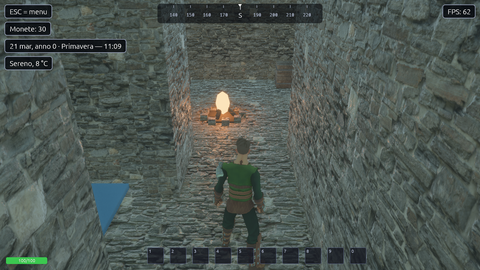
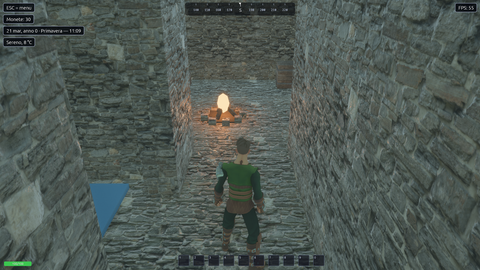
feat(devtools): tests run headless with no input and audio into a virtual sink; new reference photos
beta_check.sh runs headless by default (no keyboard, mouse or gamepad input; gilrs
disabled in headless mode) and plays audio into a temporary PulseAudio null sink,
which the pilot's recorder uses through PULSE_SINK. --con-finestra and --con-casse
restore the old behaviour. Reference photos redone headless for all scripts; meteo
and scuri-casetta framed better; quest-completa collects coins on a grid.

diff --git a/src/autopilot.rs b/src/autopilot.rs
@@ -192,12 +192,19 @@ impl Autopilot {
 
 /// Avvia la registrazione di ciò che esce dagli altoparlanti (monitor della scheda audio
 /// predefinita, PulseAudio o PipeWire) in un file WAV. Solo Linux: `parec` e `pactl`.
+/// Con `PULSE_SINK` (le prove di `beta_check.sh` suonano in una scheda virtuale, a casse mute)
+/// registra quella.
 fn start_recording(path: &std::path::Path) -> Result<std::process::Child, String> {
-    let sink = std::process::Command::new("pactl")
-        .arg("get-default-sink")
-        .output()
-        .map_err(|e| format!("pactl: {e}"))?;
-    let sink = String::from_utf8_lossy(&sink.stdout).trim().to_string();
+    let sink = match std::env::var("PULSE_SINK") {
+        Ok(s) if !s.is_empty() => s,
+        _ => {
+            let out = std::process::Command::new("pactl")
+                .arg("get-default-sink")
+                .output()
+                .map_err(|e| format!("pactl: {e}"))?;
+            String::from_utf8_lossy(&out.stdout).trim().to_string()
+        }
+    };
     if sink.is_empty() {
         return Err("nessuna scheda audio predefinita".into());
     }

diff --git a/src/main.rs b/src/main.rs
@@ -159,7 +159,10 @@ fn main() -> AppExit {
                 close_when_requested: false,
                 ..default()
             })
+            // Senza finestra non arrivano tastiera né mouse; niente nemmeno dai gamepad:
+            // in prova comanda solo il pilota.
             .disable::<bevy::winit::WinitPlugin>()
+            .disable::<bevy::gilrs::GilrsPlugin>()
             .add(bevy::app::ScheduleRunnerPlugin::run_loop(
                 std::time::Duration::from_secs_f64(1.0 / 60.0),
             ))

diff --git a/docs/beta/PIANO-BETA.md b/docs/beta/PIANO-BETA.md
@@ -229,7 +229,7 @@ Per ogni voce: un copione in `prove/`, cosa ci si aspetta, come si verifica (sta
 
 **Da decidere**: tutti gli effetti escono **identici a destra e a sinistra**. Non c'è audio posizionale, solo il volume che cala con la distanza: una campana o un abitante a sinistra non si sentono a sinistra. Bevy ha l'audio spaziale (ascoltatore sulla camera): è un miglioramento, non un difetto.
 
-**Limite scoperto l'11/11**: il pilota ha bisogno che la sessione di `dev` sia quella attiva. Se è attiva l'altra sessione del PC (un altro utente su un altro terminale virtuale), il gioco va in panic alla creazione della finestra (Vulkan «Invalid surface»). Con lo schermo solo bloccato, o il monitor spento, funziona. Il rendering software (Xvfb + llvmpipe) è troppo lento: in 5 minuti non finisce l'avvio. Rimedio: `PLANET_ONE_HEADLESS=1` (o `beta_check.sh --senza-schermo`), la camera disegna in un'immagine sulla GPU senza finestra; le foto non hanno HUD né pannelli. Parte sulla scheda giusta. Il primo tentativo è finito con la **memoria video esaurita**, perché Ollama teneva caricato un altro modello (circa 9 GB) e la scheda ha 12 GB.
+**Limite scoperto l'11/11**: il pilota ha bisogno che la sessione di `dev` sia quella attiva. Se è attiva l'altra sessione del PC (un altro utente su un altro terminale virtuale), il gioco va in panic alla creazione della finestra (Vulkan «Invalid surface»). Con lo schermo solo bloccato, o il monitor spento, funziona. Il rendering software (Xvfb + llvmpipe) è troppo lento: in 5 minuti non finisce l'avvio. Rimedio: `PLANET_ONE_HEADLESS=1` (oggi il modo di base di `beta_check.sh`), la camera disegna in un'immagine sulla GPU senza finestra; le foto non hanno HUD né pannelli. Parte sulla scheda giusta. Il primo tentativo è finito con la **memoria video esaurita**, perché Ollama teneva caricato un altro modello (circa 9 GB) e la scheda ha 12 GB.
 
 **Risoluzioni (11/11)**: `beta_check.sh` prova le risoluzioni standard 720p, 1080p, 1440p e 4K, come un giocatore vero (`--risoluzioni giro|tutte|…`). I monitor di questo PC arrivano a 2560×1440, ma il gestore delle finestre riduce una finestra 1440p o 4K a 2490×1376. Per questo le risoluzioni che non stanno sullo schermo girano senza finestra, alla misura esatta, e il rapporto mostra la risoluzione vera. Copione `fps` (nove luoghi, giorno e notte, grafica alta, RTX 3080 Ti):
 
@@ -246,7 +246,17 @@ Suite completa a rotazione (21 copioni, cinque o sei per risoluzione): tutti pas
 - senza finestra Bevy avvisava che mancava l'origine del dettaglio delle ombre (`ShadowLodOrigin`): ora è la camera, così le ombre e gli FPS misurati sono come a finestra;
 - `b2-torre`: il `tp` dentro la torre mette il giocatore sotto il pavimento prima che i collider siano pronti, e la rete di sicurezza lo riporta su (`[RETE]`). Il giocatore non ci arriva così; la prova passa;
 - una finestra 1080p può aprirsi sul secondo monitor (1920×1080) e venire ridotta a 1850×1043: il rapporto lo segnala nella colonna Risoluzione;
-- i copioni nuovi (`edifici`, `giro-camera`, `interfaccia`, `meteo` e altri) non hanno ancora foto di riferimento: si creano con `--aggiorna` quando le foto attuali vanno bene.
+- foto di riferimento: rifatte tutte senza finestra (15 copioni, 63 foto) dopo averle guardate una per una. `meteo` ora inquadra un prato aperto a ovest (prima il giocatore era attaccato a un muro); `scuri-casetta` inquadra la finestra sud da fuori e fotografa giorno, notte e mattina (prima si vedevano solo le guardie). `quest-completa` falliva una volta su tre: il ladro muore in punti diversi e il giro fisso a volte lasciava una moneta oltre i 2 m di raccolta; ora il pilota percorre la zona a griglia (passato 3 volte su 3). Corsa di verifica: 63 foto su 63 entro la soglia.
+
+**Prove che non disturbano (11/11)**: di base `beta_check.sh` gira senza finestra, quindi non arriva input da tastiera, mouse o gamepad, e con l'audio in una scheda virtuale di PulseAudio (`module-null-sink`, `PULSE_SINK`), tolta alla fine. Le casse restano mute e `registra` registra lo stesso: i livelli coincidono con la revisione dei suoni. Le foto senza finestra hanno comunque l'HUD. `--con-finestra` e `--con-casse` tornano come prima. Unico avviso nuovo: un «buffer underrun» di rodio nel copione `ascolto` (la scheda virtuale ha un suo orologio; non si sente nella registrazione).
+
+Trovati guardando le foto (da decidere):
+- **Meteo**: con nuvoloso, nebbia, pioggia, temporale e neve il sole proietta ancora **ombre nette** come col sereno. Il cielo coperto dovrebbe ammorbidirle o toglierle.
+- **Neve**: i fiocchi vicini alla camera sono grossi quadrati bianchi.
+- **Interfaccia a 4K**: l'HUD e i pannelli non si ingrandiscono con la risoluzione. Senza ridimensionamento del sistema (100%) sono minuscoli: serve una scala dell'interfaccia (automatica o nelle impostazioni).
+- **Insegne vuote**: alcuni edifici hanno la tabella senza scritta (forno, bottega di Osvaldo, sopra due porte).
+- **Camera**: girando attorno al giocatore sotto le tettoie del mercato, la camera entra nelle travi (una foto di `giro-camera` è coperta da una trave).
+- **Voce**: il saluto di Marta arriva a 0,0 dBFS (0,1% dei campioni al limite): va abbassata di qualche dB.
 
 Da tenere per la fase delle prestazioni:
 - le prove usano la grafica «alta» predefinita, mentre le impostazioni dell'utente sono basse (niente ombre, SSAO, bloom): gli FPS misurati sono quelli del caso peggiore;

diff --git a/CHANGELOG.md b/CHANGELOG.md
@@ -10,8 +10,9 @@ Formato versione: `vMAJOR.MINOR.FEATURE.BUGFIX` (vedi [docs/VERSIONING.md](docs/
 - **IA locale**: la prima risposta può richiedere fino a 150 s (prima 40 s, e la chat si arrendeva); il messaggio d'errore nomina l'abitante giusto invece del Viandante.
 - **Inventario**: le monete si contano a parte («Oggetti: 4   Monete: 30»).
 - **Targhette degli abitanti**: quando due si sovrapporrebbero, quella più lontana sale sopra l'altra.
-- **Modalità senza finestra** (`PLANET_ONE_HEADLESS=1`, `beta_check.sh --senza-schermo`): la camera disegna in un'immagine, per le prove quando lo schermo non c'è; `PLANET_ONE_GFX=basso|medio|alto` per le prove.
+- **Modalità senza finestra** (`PLANET_ONE_HEADLESS=1`, ora il modo di base di `beta_check.sh`): la camera disegna in un'immagine, per le prove anche quando lo schermo non c'è; `PLANET_ONE_GFX=basso|medio|alto` per le prove.
 - **Prove a più risoluzioni**: `beta_check.sh --risoluzioni giro|tutte|720p|1080p|1440p|4k|LxA`. Di base ogni copione gira a una risoluzione standard diversa, a rotazione (720p, 1080p, 1440p, 4K); `tutte` li prova a tutte e quattro. Le risoluzioni che non stanno sul monitor girano senza finestra, alla misura esatta. Il rapporto ha le colonne Risoluzione, FPS medio e 1% peggiore; il pilota scrive in `RAPPORTO.txt` la risoluzione vera della finestra e gli FPS (un campione al secondo).
+- **Prove che non disturbano**: `beta_check.sh` di base gira senza finestra (nessun input da tastiera, mouse o gamepad; i gamepad sono spenti nella modalità senza finestra) e con l'audio in una scheda virtuale di PulseAudio, a casse mute; il comando `registra` registra quella. `--con-finestra` e `--con-casse` tornano come prima. Foto di riferimento rifatte senza finestra per tutti i copioni; `meteo` e `scuri-casetta` inquadrano meglio, `quest-completa` raccoglie le monete a griglia.
 - Shell: `volume <musica|ambiente|voci> <0-100>` (non salvato), utile per ascoltare gli effetti senza musica.
 - Pilota: `camera <yaw> <pitch> [distanza]`, `ruota`, `prima-persona`, `giro-foto <nome> <n>` (foto tutt'attorno); `registra <nome>`/`ferma` (audio degli altoparlanti in WAV, Linux) e `scripts/ascolta.py` (volume, saturazione, silenzi, eventi, spettrogramma, parlato con whisper.cpp locale); `guarda <nome> <distanza>` mira a metà facciata degli edifici; `compra`, `prendi`, `chiudi`, `mira <oggetto>`, `di <frase>`; il `dump` mostra negozio, mobile aperto e chat. Nuovi copioni `negozi-mobili`, `interfaccia`, `ia-locale`, `edifici`.
 

diff --git a/README.md b/README.md
@@ -154,10 +154,15 @@ esci
 scripts/beta_check.sh                      # tutti i copioni di prove/, rapporto in prove/out/RAPPORTO.md
 scripts/beta_check.sh prove/giro.txt       # uno solo
 scripts/beta_check.sh --aggiorna           # le foto di questa corsa diventano i riferimenti
-scripts/beta_check.sh --senza-schermo      # senza finestra (schermo non disponibile)
+scripts/beta_check.sh --con-finestra       # con la finestra vera (foto con HUD e pannelli)
+scripts/beta_check.sh --con-casse          # l'audio esce dalle casse
 scripts/beta_check.sh --risoluzioni tutte  # ogni copione a 720p, 1080p, 1440p e 4K (di base: a rotazione)
 scripts/beta_check.sh --risoluzioni 4k     # tutti a una sola risoluzione (720p, 1080p, 1440p, 4k o LxA)
 ```
+
+Di base le prove non disturbano chi usa il PC: girano **senza finestra** (la camera disegna in un'immagine
+alla risoluzione esatta, quindi nessun input da tastiera, mouse o gamepad arriva al gioco) e con l'audio
+in una **scheda virtuale** di PulseAudio (`PULSE_SINK`), a casse mute; `registra` registra lo stesso.
 
 Un copione può chiedere variabili proprie con righe `# env: CHIAVE=valore` (es. `# env: PLANET_ONE_SPEED=6`).
 
